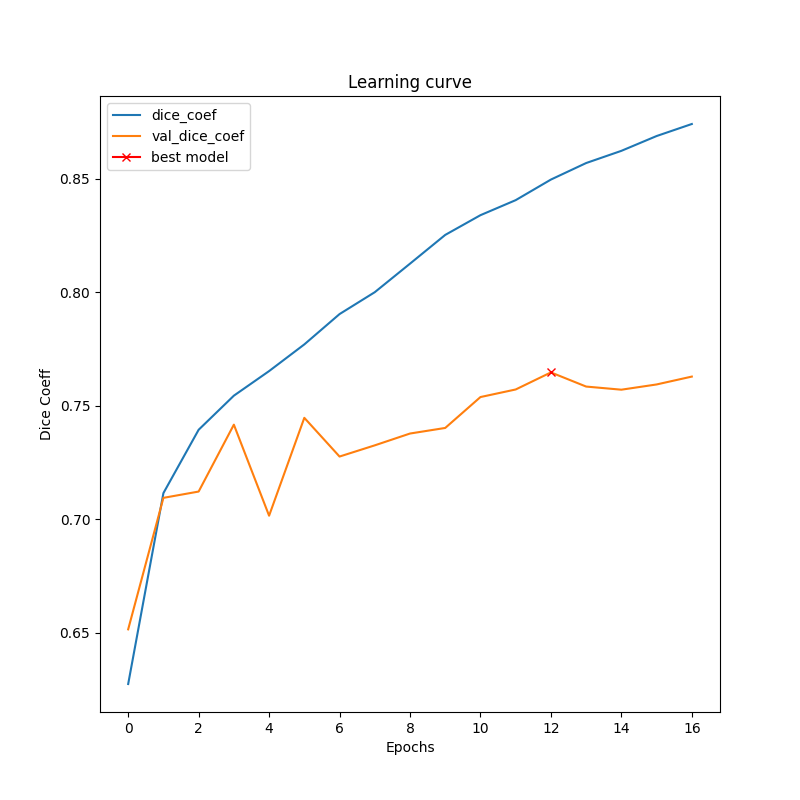
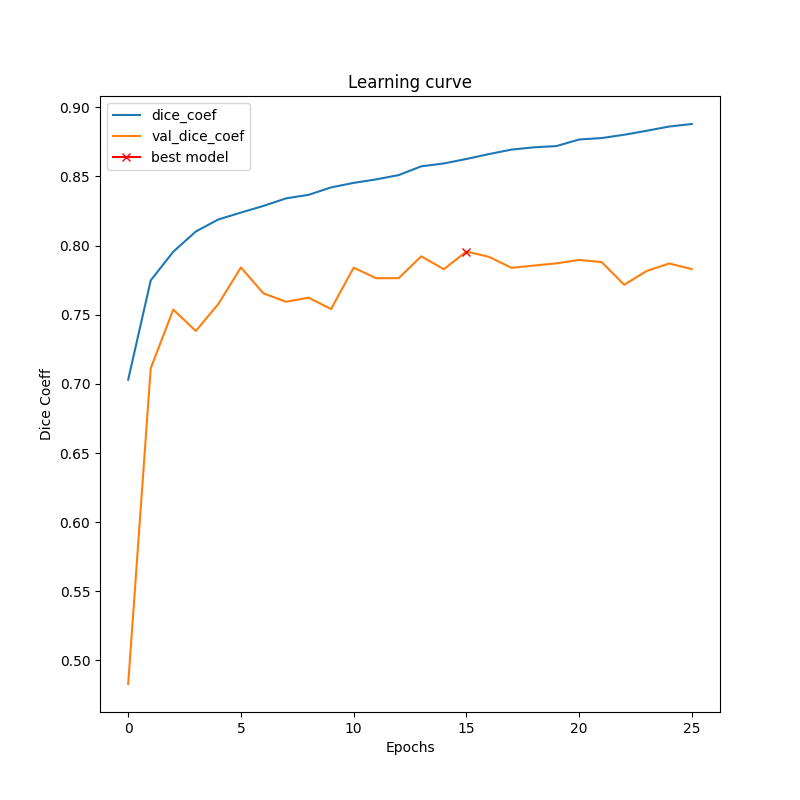
11th April 2020

diff --git a/Code/network/unetmod/u_net_mod.py b/Code/network/unetmod/u_net_mod.py
@@ -14,10 +14,27 @@ from keras.engine import InputSpec
 from keras.layers import merge
 from keras import layers
 
+def squeeze_excite_block(tensor, ratio=16):
+    init = tensor
+    channel_axis = 1 if K.image_data_format() == "channels_first" else -1
+    filters = init._keras_shape[channel_axis]
+    se_shape = (1, 1, filters)
+
+    se = GlobalAveragePooling2D()(init)
+    se = Reshape(se_shape)(se)
+    se = Dense(filters // ratio, activation='relu', kernel_initializer='he_normal', use_bias=False)(se)
+    se = Dense(filters, activation='sigmoid', kernel_initializer='he_normal', use_bias=False)(se)
+
+    if K.image_data_format() == 'channels_first':
+        se = Permute((3, 1, 2))(se)
+
+    x = multiply([init, se])
+    return x
 
 def conv2d_block(input_tensor, n_filters, kernel_size = 3, batchnorm = True):
     """Function to add 2 convolutional layers with the parameters passed to it"""
     # first layer
+    se = squeeze_excite_block(input_tensor)
     x = Conv2D(filters = n_filters, kernel_size = (kernel_size, kernel_size),\
               kernel_initializer = 'he_normal', padding = 'same')(input_tensor)
     if batchnorm:
@@ -30,31 +47,40 @@ def conv2d_block(input_tensor, n_filters, kernel_size = 3, batchnorm = True):
     if batchnorm:
         x = BatchNormalization()(x)
     x = Activation('relu')(x)
+    c1 = layers.add([x, se])
     
     return x
 
 def get_unet_mod(input_img, n_filters = 16, dropout = 0.1, batchnorm = True):
     """Function to define the UNET Model"""
     # Contracting Path
-    c1 = conv2d_block(input_img, n_filters * 1, kernel_size = 3, batchnorm = batchnorm)
-    c1 = concatenate([c1, input_img])
+    skip = Conv2D(filters = n_filters * 1, kernel_size = (3, 3),\
+              kernel_initializer = 'he_normal', padding = 'same')(input_img)
+    c1 = conv2d_block(skip, n_filters * 1, kernel_size = 3, batchnorm = batchnorm)
+    c1 = layers.add([c1, skip])
     p1 = MaxPooling2D((2, 2))(c1)
     p1 = Dropout(dropout)(p1)
     
-    p1 = aspp_block(p1,num_filters=256,rate_scale=1,output_stride=2,input_shape=(256,256,3))
+    #p1 = aspp_block(p1,num_filters=256,rate_scale=1,output_stride=2,input_shape=(256,256,3))
     
-    c2 = conv2d_block(p1, n_filters * 2, kernel_size = 3, batchnorm = batchnorm)
-    c2 = concatenate([c2, p1])
+    skip = Conv2D(filters = n_filters * 2, kernel_size = (3, 3),\
+              kernel_initializer = 'he_normal', padding = 'same')(p1)
+    c2 = conv2d_block(skip, n_filters * 2, kernel_size = 3, batchnorm = batchnorm)
+    c2 = layers.add([c2, skip])
     p2 = MaxPooling2D((2, 2))(c2)
     p2 = Dropout(dropout)(p2)
     
-    c3 = conv2d_block(p2, n_filters * 4, kernel_size = 3, batchnorm = batchnorm)
-    c3 = concatenate([c3, p2])
+    skip = Conv2D(filters = n_filters * 4, kernel_size = (3, 3),\
+              kernel_initializer = 'he_normal', padding = 'same')(p2)
+    c3 = conv2d_block(skip, n_filters * 4, kernel_size = 3, batchnorm = batchnorm)
+    c3 = layers.add([c3, skip])
     p3 = MaxPooling2D((2, 2))(c3)
     p3 = Dropout(dropout)(p3)
     
-    c4 = conv2d_block(p3, n_filters * 8, kernel_size = 3, batchnorm = batchnorm)
-    c4 = concatenate([c4, p3])
+    skip = Conv2D(filters = n_filters * 8, kernel_size = (3, 3),\
+              kernel_initializer = 'he_normal', padding = 'same')(p3)
+    c4 = conv2d_block(skip, n_filters * 8, kernel_size = 3, batchnorm = batchnorm)
+    c4 = layers.add([c4, skip])
     p4 = MaxPooling2D((2, 2))(c4)
     p4 = Dropout(dropout)(p4)
     
@@ -62,25 +88,41 @@ def get_unet_mod(input_img, n_filters = 16, dropout = 0.1, batchnorm = True):
     
     """"""
     # Expansive Path
+    
     u6 = Conv2DTranspose(n_filters * 8, (3, 3), strides = (2, 2), padding = 'same')(c5)
     u6 = concatenate([u6, c4])
     u6 = Dropout(dropout)(u6)
-    c6 = conv2d_block(u6, n_filters * 8, kernel_size = 3, batchnorm = batchnorm)
+    skip = Conv2D(filters = n_filters * 8, kernel_size = (3, 3),\
+              kernel_initializer = 'he_normal', padding = 'same')(u6)
+    c6 = conv2d_block(skip, n_filters * 8, kernel_size = 3, batchnorm = batchnorm)
+    c6 = layers.add([c6, skip])
+    
     
     u7 = Conv2DTranspose(n_filters * 4, (3, 3), strides = (2, 2), padding = 'same')(c6)
     u7 = concatenate([u7, c3])
     u7 = Dropout(dropout)(u7)
-    c7 = conv2d_block(u7, n_filters * 4, kernel_size = 3, batchnorm = batchnorm)
+    skip = Conv2D(filters = n_filters * 4, kernel_size = (3, 3),\
+              kernel_initializer = 'he_normal', padding = 'same')(u7)
+    c7 = conv2d_block(skip, n_filters * 4, kernel_size = 3, batchnorm = batchnorm)
+    c6 = layers.add([c7, skip])
+    
     
     u8 = Conv2DTranspose(n_filters * 2, (3, 3), strides = (2, 2), padding = 'same')(c7)
     u8 = concatenate([u8, c2])
     u8 = Dropout(dropout)(u8)
-    c8 = conv2d_block(u8, n_filters * 2, kernel_size = 3, batchnorm = batchnorm)
+    skip = Conv2D(filters = n_filters * 2, kernel_size = (3, 3),\
+              kernel_initializer = 'he_normal', padding = 'same')(u8)
+    c8 = conv2d_block(skip, n_filters * 2, kernel_size = 3, batchnorm = batchnorm)
+    c6 = layers.add([c8, skip])
+    
     
     u9 = Conv2DTranspose(n_filters * 1, (3, 3), strides = (2, 2), padding = 'same')(c8)
     u9 = concatenate([u9, c1])
     u9 = Dropout(dropout)(u9)
-    c9 = conv2d_block(u9, n_filters * 1, kernel_size = 3, batchnorm = batchnorm)
+    skip = Conv2D(filters = n_filters * 1, kernel_size = (3, 3),\
+              kernel_initializer = 'he_normal', padding = 'same')(u9)
+    c9 = conv2d_block(skip, n_filters * 1, kernel_size = 3, batchnorm = batchnorm)
+    c6 = layers.add([c9, skip])
     
     #outputs = Conv2D(1, (1, 1), activation='sigmoid')(c5)
     #c9 = aspp_block(c5,num_filters=256,rate_scale=1,output_stride=16,input_shape=(256,256,3))

diff --git a/Train.py b/Train.py
@@ -9,6 +9,7 @@ from keras.optimizers import Adam, nadam,SGD
 from keras.layers import Input
 # from Code.utils.lossfunctions import jaccard_distance_loss,dice_coef_loss
 from Code.utils.metricfunctions import dice_coef,f1
+from Code.utils.lossfunctions import *
 
 #from Code.network.unetmod.u_net_mod import get_unet_mod
 from Code.network.unetmod.u_net_mod import *
@@ -122,14 +123,14 @@ y_train = np.array(y_train)
 X_test = np.array(X_test) 
 y_test = np.array(y_test) 
 
-input_img = Input((256, 256, 3), name='img')
+input_img = Input((None, None, 3), name='img')
 #from tensorflow.keras.utils.vis_utils import plot_model
 
 if config['Model'] == "UNETMOD":
     print("Loading UNETMOD Model")
-    model = get_unet_mod(input_img, n_filters=16, dropout=0.05, batchnorm=True)  #32
+    model = get_unet_mod(input_img, n_filters=16, dropout=0.1, batchnorm=True)  #32
     # model.compile(optimizer=Adam(1e-5), loss=jaccard_distance_loss, metrics=[iou,dice_coef])
-    model.compile(optimizer=Adam(amsgrad=True), loss="binary_crossentropy", metrics=["accuracy", dice_coef, f1])
+    model.compile(optimizer=Adam(amsgrad=True), loss=dice_loss, metrics=["accuracy", dice_coef, f1])
     print("Printing Model Summary")
     print (model.summary())
     tf.keras.utils.plot_model(model, './Code/network/unetmod/unet_plot.png')
@@ -174,7 +175,7 @@ print("Compiling Model")
 callbacks = [
     EarlyStopping(patience=10, verbose=1),
     ReduceLROnPlateau(factor=0.1, patience=10, min_lr=0.00001, verbose=1),
-    ModelCheckpoint('./Results/weights/'+str(config['Model'])+'/'+str(config['Model'])+'-Best.h5', verbose=1, save_best_only=True, save_weights_only=False)
+    ModelCheckpoint('./Results/weights/'+str(config['Model'])+'/'+str(config['Model'])+'-Best.h5', monitor='val_dice_coef',mode = 'max' , verbose=1, save_best_only=True, save_weights_only=False)
 ]
 X_train = X_train.reshape(-1,patch_height,patch_width,3)
 y_train = y_train.reshape(-1,patch_height,patch_width,1)

diff --git a/Code/utils/lossfunctions.py b/Code/utils/lossfunctions.py
@@ -1,4 +1,5 @@
 from keras import backend as K
+import tensorflow as tf
 
 
 def jaccard_distance_loss(y_true, y_pred, smooth=100):
@@ -20,12 +21,26 @@ def jaccard_distance_loss(y_true, y_pred, smooth=100):
     jac = (intersection + smooth) / (sum_ - intersection + smooth)
     return (1 - jac) * smooth
     
-def dice_coef(y_true, y_pred, smooth=1.):
-    y_true_f = K.flatten(y_true)
-    y_pred_f = K.flatten(y_pred)
-    intersection = K.sum(y_true_f * y_pred_f)
-    return (2. * intersection + smooth) / (
-                K.sum(y_true_f) + K.sum(y_pred_f) + smooth)
-      
-def dice_coef_loss(y_true, y_pred):
-    return 1 - dice_coef(y_true, y_pred)
+def dice_loss(y_true, y_pred):
+  numerator = 2 * tf.reduce_sum(y_true * y_pred, axis=(1,2,3))
+  denominator = tf.reduce_sum(y_true + y_pred, axis=(1,2,3))
+
+  return 1 - numerator / denominator
+  
+def focal_loss(alpha=0.25, gamma=2):
+  def focal_loss_with_logits(logits, targets, alpha, gamma, y_pred):
+    weight_a = alpha * (1 - y_pred) ** gamma * targets
+    weight_b = (1 - alpha) * y_pred ** gamma * (1 - targets)
+    
+    return (tf.math.log1p(tf.exp(-tf.abs(logits))) + tf.nn.relu(-logits)) * (weight_a + weight_b) + logits * weight_b 
+
+  def loss(y_true, y_pred):
+    y_pred = tf.clip_by_value(y_pred, tf.keras.backend.epsilon(), 1 - tf.keras.backend.epsilon())
+    logits = tf.math.log(y_pred / (1 - y_pred))
+
+    loss = focal_loss_with_logits(logits=logits, targets=y_true, alpha=alpha, gamma=gamma, y_pred=y_pred)
+
+    # or reduce_sum and/or axis=-1
+    return tf.reduce_mean(loss)
+
+  return loss
